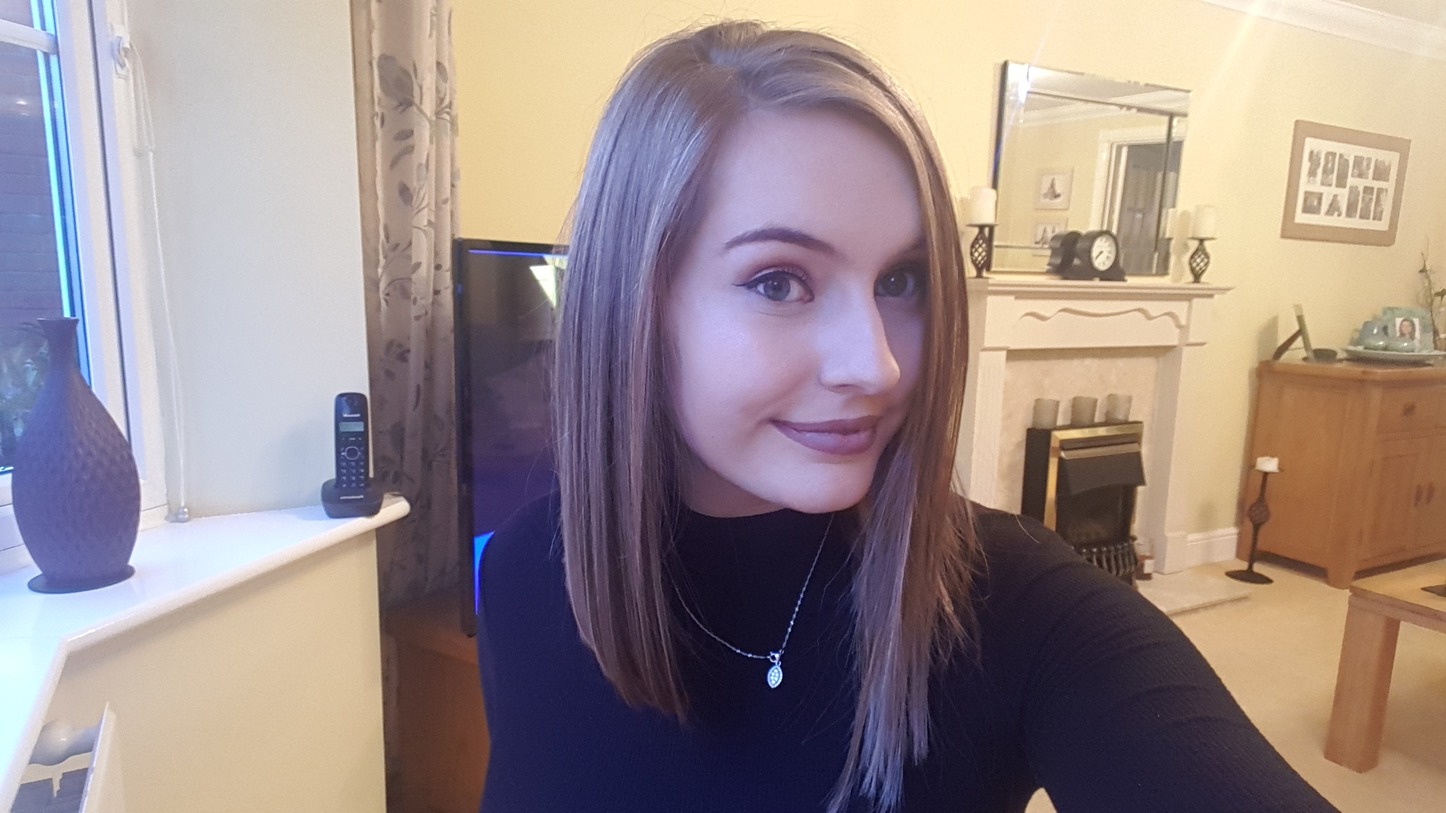
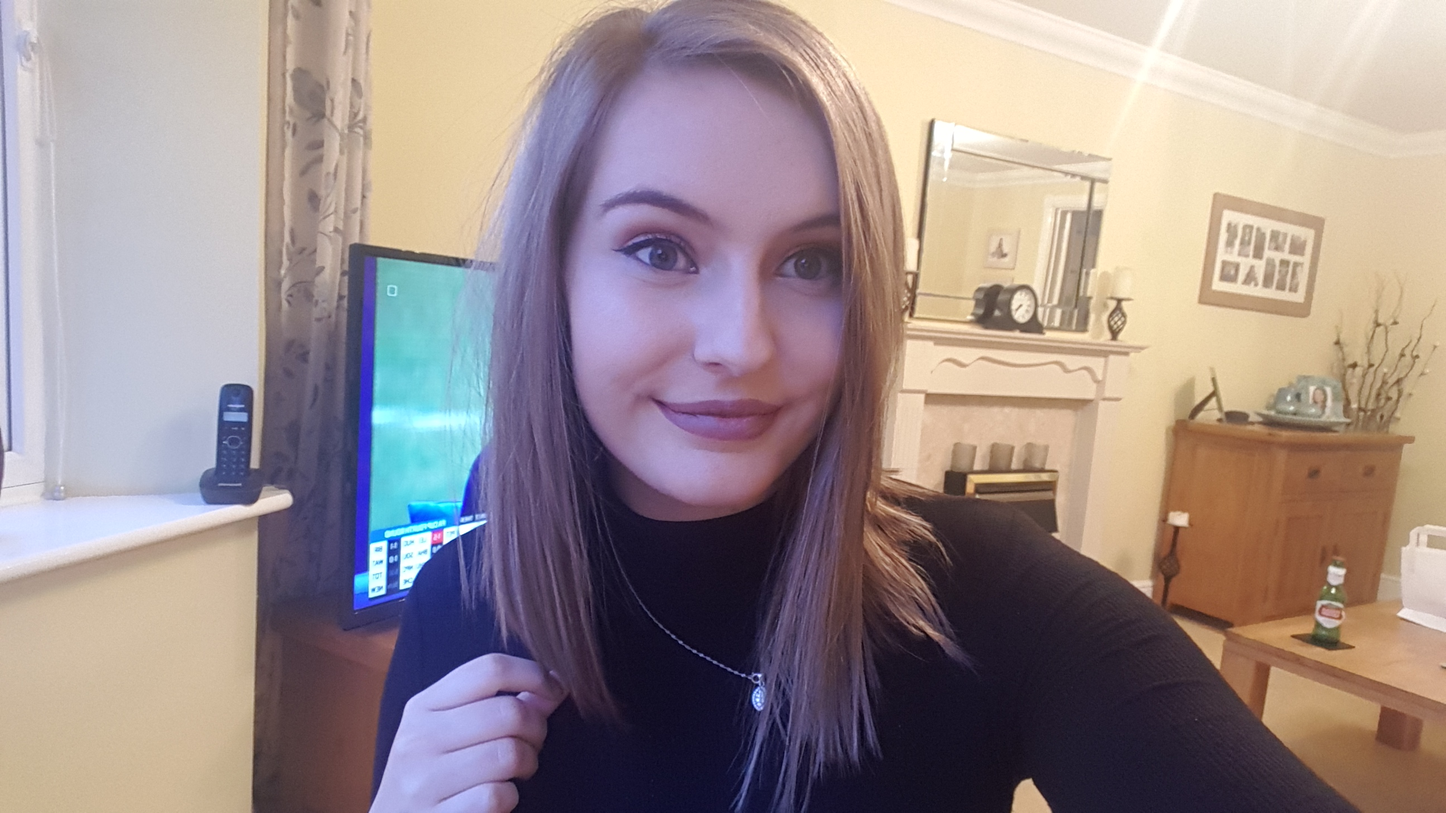
Changed Blog Page and added new Blog Post

diff --git a/blogposts/page1.html b/blogposts/page1.html
@@ -19,14 +19,14 @@
             <img src="../images/blogpostHeaders/test.png" class="img">
             <p class="sample">Lorem ipsum dolor sit amet, consectetur adipiscing elit. Suspendisse eget fringilla eros. Cras efficitur molestie ante at tincidunt. Pellentesque vehicula finibus porta. Suspendisse porta diam quis malesuada venenatis. Praesent elementum ex eget erat aliquet dapibus ac eu tellus. Fusce vitae ligula arcu. Sed neque nunc, efficitur sit amet ante quis, volutpat tristique lacus. Etiam tortor mauris, sollicitudin vitae consectetur at, sollicitudin non lacus. Proin scelerisque quam ut ligula tincidunt cursus eget nec ante. Praesent vel nunc semper urna posuere aliquam ut nec sem. Suspendisse efficitur eget orci mattis maximus.</p>
             <button class="pulse" type="button">Read More</button>
-        </div>
+        </div>-->
          <div class="blogpost">
-             <p class="title">TITLE WILL GO HERE</p>
-            <p class="date">7th January 2018</p>
-            <img src="../images/blogpostHeaders/test.png" class="img">
-            <p class="sample">Lorem ipsum dolor sit amet, consectetur adipiscing elit. Suspendisse eget fringilla eros. Cras efficitur molestie ante at tincidunt. Pellentesque vehicula finibus porta. Suspendisse porta diam quis malesuada venenatis. Praesent elementum ex eget erat aliquet dapibus ac eu tellus. Fusce vitae ligula arcu. Sed neque nunc, efficitur sit amet ante quis, volutpat tristique lacus. Etiam tortor mauris, sollicitudin vitae consectetur at, sollicitudin non lacus. Proin scelerisque quam ut ligula tincidunt cursus eget nec ante. Praesent vel nunc semper urna posuere aliquam ut nec sem. Suspendisse efficitur eget orci mattis maximus.</p>
-            <button class="pulse" type="button">Read More</button>
-        </div> -->
+             <p class="title">My Hair is Gone</p>
+            <p class="date">27th January 2018</p>
+            <img src="../images/blogpostHeaders/27-01-2018.jpg" class="img">
+            <p class="sample">IT HAPPENED. I DID IT. I CUT MY HAIR. And my oh my what a rollercoaster it has been, and still is to be honest. I decided to lob off a respectable 11 inches off my hair and for the life of me I can't get used to it. It's such a big change for me and to be honest I still don't know if I like it haha. I'm not reaallly sure what to do with it, and despite so much being taken off, I now feel like I have more hair???? It also actually takes LONGER to style and get ready in the morning. I did not sign up for this. BUT ALAS, life goes on. Anyway he's a little insight into the day I got it cut! Here's my hair before ... </p>
+            <button class="pulse" type="button"><a href="/blogposts/blogs/27-01-2018.php#disqus_thread">Read More</a></button>
+        </div> 
        <div class="blogpost">
             <p class="title">2018 Blog Overhaul</p>
             <p class="date">7th January 2018</p>

diff --git a/css/blogpages.css b/css/blogpages.css
@@ -1,7 +1,7 @@
 
 
 .wholeBigContainer{
-    width: 60%;
+    width: 80%;
     text-align: center;
     margin: auto;
 }
@@ -13,11 +13,15 @@
     background-color:white;
 }
 .Side{
-    /* background-color:#ff97be; */
-    background-color: #ffe5ef;
     width: 25%;
     float: left;
     /* height: 100%; */
+}
+
+.divintro{
+    width: 90%;
+
+    padding-left: 32px;
 }
 
 .blogPostHeaderImage{
@@ -40,7 +44,7 @@
 
 #blogpages{
     font-family: 'Maven Pro';
-    font: #666666;
+    color: #666666;
 }
 
 .blogpost{
@@ -149,6 +153,11 @@
   .blogImages{
       width:40%;
   }
+
+  .emailInputs{
+      background-color: #ffe5ef;
+  }
+
 
 
   @media screen and (max-width: 479px) {

diff --git a/blogposts/blogs/27-01-2018.php b/blogposts/blogs/27-01-2018.php
@@ -1,0 +1,83 @@
+<html>  
+<head>
+    <!-- Global site tag (gtag.js) - Google Analytics -->
+    <script async src="https://www.googletagmanager.com/gtag/js?id=UA-112235861-1"></script>
+    <script>
+    window.dataLayer = window.dataLayer || [];
+    function gtag(){dataLayer.push(arguments);}
+    gtag('js', new Date());
+
+    gtag('config', 'UA-112235861-1');
+    </script> 
+    <link rel='stylesheet' href='/../css/blogpages.css'>
+    <link rel='stylesheet' href='/../css/pageStyles.css'>
+    <link rel='stylesheet' href='/../css/icons.css'>
+    <meta name="viewport" content="width=device-width, initial-scale=1.0">
+</head>
+<body onload="javascript:window.scrollTo(0,0);">
+    <?php include ('../../header.html'); ?>
+
+    <!-- THE ACTUAL POST -->
+
+    <center>
+        <p class="blogTitle"> MY HAIR IS GONE</p>
+       
+        </br></br>
+
+        <div class="blogBody">
+            <p> IT HAPPENED. I DID IT. I CUT MY HAIR. And my oh my what a rollercoaster it has been, and still is to be honest. I decided to lob off a respectable 11 inches off my hair and for the life of me I can't get used to it. It's such a big change for me and to be honest I still don't know if I like it haha. I'm not reaallly sure what to do with it, and despite so much being taken off, I now feel like I have more hair???? It also actually takes LONGER to style and get ready in the morning. I did not sign up for this. BUT ALAS, life goes on. Anyway he's a little insight into the day I got it cut! Here's my hair before: </p>
+
+            <img class="blogImages" src="../../images/blogs/27thJan/2.jpg">
+            </br></br>
+            <p>
+            So I started my day by driving an hour to get back home where my hairdressers is ( I say MY hairdressers, I've only been twice but despite the hefty price tag I know they'd do a good job with this.). I dropped my boyfriend off for a day with my dad and then got to my appointment for half 11. NOW HERE is where I got mad nervous. The first cut. Although I was also excited. One great thing that's come from all this is that my hair was long enough be able to donate to the Little Princess Trust. For those who don't know they use the hair to make wigs for little girls who've lost their hair through illnesses such as cancer. So they put my hair in a ponytail and <i> snip snip snip<i> just like that it was gone.   </p>
+
+            <img class="blogImages" src="../../images/blogs/27thJan/3.jpg">
+            </br></br>
+            <p>
+            I did the standard thing of running my fingers through my hair, marvelling at how my hair just ends so much earlier than I'm used to, but also breathing a sigh of relief that I didn't look hideous. After this it was pretty relaxing, getting it bleached, washed, then dried, then toned, then washed, then dried again. All in all quite a nice little pamper session, all the while gossiping about love island, dancing on ice, boys, work etc. Lovely jubbly. Then came the final cut. In a moment of self confidence I asked for it shorter than I orignally intended because yano .. go big or go home. So shorter and shorter it got and I was liking the look. I got it straightened too and VOILA I was done. Off I went to live my new, shorter hair, colder necked life.  </p>
+
+            <img class="blogImages" src="../../images/blogs/27thJan/1.jpg">
+            </br></br>
+            <p>
+            Don't get me wrong I do really like it. Do I like it as much as my old hair? No. Not yet. I'm finding it difficult to deal with. Like when I tried straightening it this week, I had such a battle doing the back because usually I grab my hair and bring it round to the front and do it but now I can't even bring it round so its even in eyesight. And do not even get me started on trying to curl it. I'm sat here with it curled right now, and from the front? It's pretty! The back? God knows how that looks. I couldn't reach nor curl it properly and didn't even want to see how that ended up haha. I'm not so upset by it anymore (bless my boyfriend, I had a good few wobblys over the weekend which he had to deal with. I tried making it wavy and it failed and I cried ahahha, so shout out to him for handling all that like a true gent), but I am pretty burnt up from the curler so. </p>
+
+            <img class="blogImages" src="../../images/blogs/27thJan/4.jpg">
+            </br></br>
+
+            <p>
+            Feedback from people so far has been lovely, everyone has been very complimentary of it which is sweet. Although tbh I'd highly doubt anyone was going to come up to me and tell me it looks shit so there you go. To be fair some men at work didn't even noticed it had changed until a few days later so there you go ahha. I might still not be keen but everyone else has been very supportive. Here's to no doubt many more burns, and life with less hair, hopefully I get used to it!! 
+
+            </br></br>
+
+            - Abby x
+        
+            </p>
+        </div>
+
+
+        <button class="pulse" type="button"><a style="color: ff97be" href="../../blog.php">Back to Blog Posts</a></button>
+    </center>
+
+    <center>
+        <div id="disqus_thread">
+            <script>
+                
+                var disqus_config = function () {
+                this.page.url = "http://localhost:8080/blogposts/blogs/07-01-2018.php;"  // Replace PAGE_URL with your page's canonical URL variable
+                this.page.identifier = PAGE_IDENTIFIER; // Replace PAGE_IDENTIFIER with your page's unique identifier variable
+                };
+                
+                (function() { // DON'T EDIT BELOW THIS LINE
+                var d = document, s = d.createElement('script');
+                s.src = 'https://acourtsthoughts.disqus.com/embed.js';
+                s.setAttribute('data-timestamp', +new Date());
+                (d.head || d.body).appendChild(s);
+                })();
+            </script>
+        <noscript>Please enable JavaScript to view the <a href="https://disqus.com/?ref_noscript">comments powered by Disqus.</a></noscript>
+        <script id="dsq-count-scr" src="//acourtsthoughts.disqus.com/count.js" async></script>
+        </div>
+    </center>
+</body>
+</html>

diff --git a/blog.php b/blog.php
@@ -35,14 +35,16 @@ if($_POST["submit"]) {
         </div>
         <div id="blogpages" class="Side"> 
             <div id = "introduction">
-                <img class="sideMe" src="/images/aboutMe.jpg" >
-                <p class="sideIntroMe">Welcome to my blog! I'm a full time programmer , professional napper and avid makeup hoarder. Find out more about me here. But enough about me, how are you?</p>
+                <img class="sideMe" src="/images/me.png" >
+                <div class="divintro">
+                    <p class="sideIntroMe">Welcome to my blog! I'm a full time programmer , professional napper and avid makeup hoarder. Find out more about me here. But enough about me, how are you?</p>
+                </div>
             </div>
             </br>
         
 
             <div id="emailSignUp">
-                <p id="blogpages">SIGN UP TO HEAR WHEN I NEXT POST!</p>
+                <p id="blogpages" style="color:black">SIGN UP TO HEAR WHEN I NEXT POST!</p>
                 <form method="post" action="blog.php">
                     First Name: </br>
                     <input class="emailInputs" type="text" name = "name" >

diff --git a/index.php b/index.php
@@ -41,7 +41,7 @@
         </article>
 
         <article class = "post-article">
-            <a href = "/blogposts/blogs/07-01-2018.php#disqus_thread" >
+            <a href = "/blogposts/blogs/27-01-2018.php#disqus_thread" >
                 <div class = "image-container" >
                     <img style = "width:110%; left:-8%" src="/images/blogs/27thJan/1.jpg">
                 </div>
